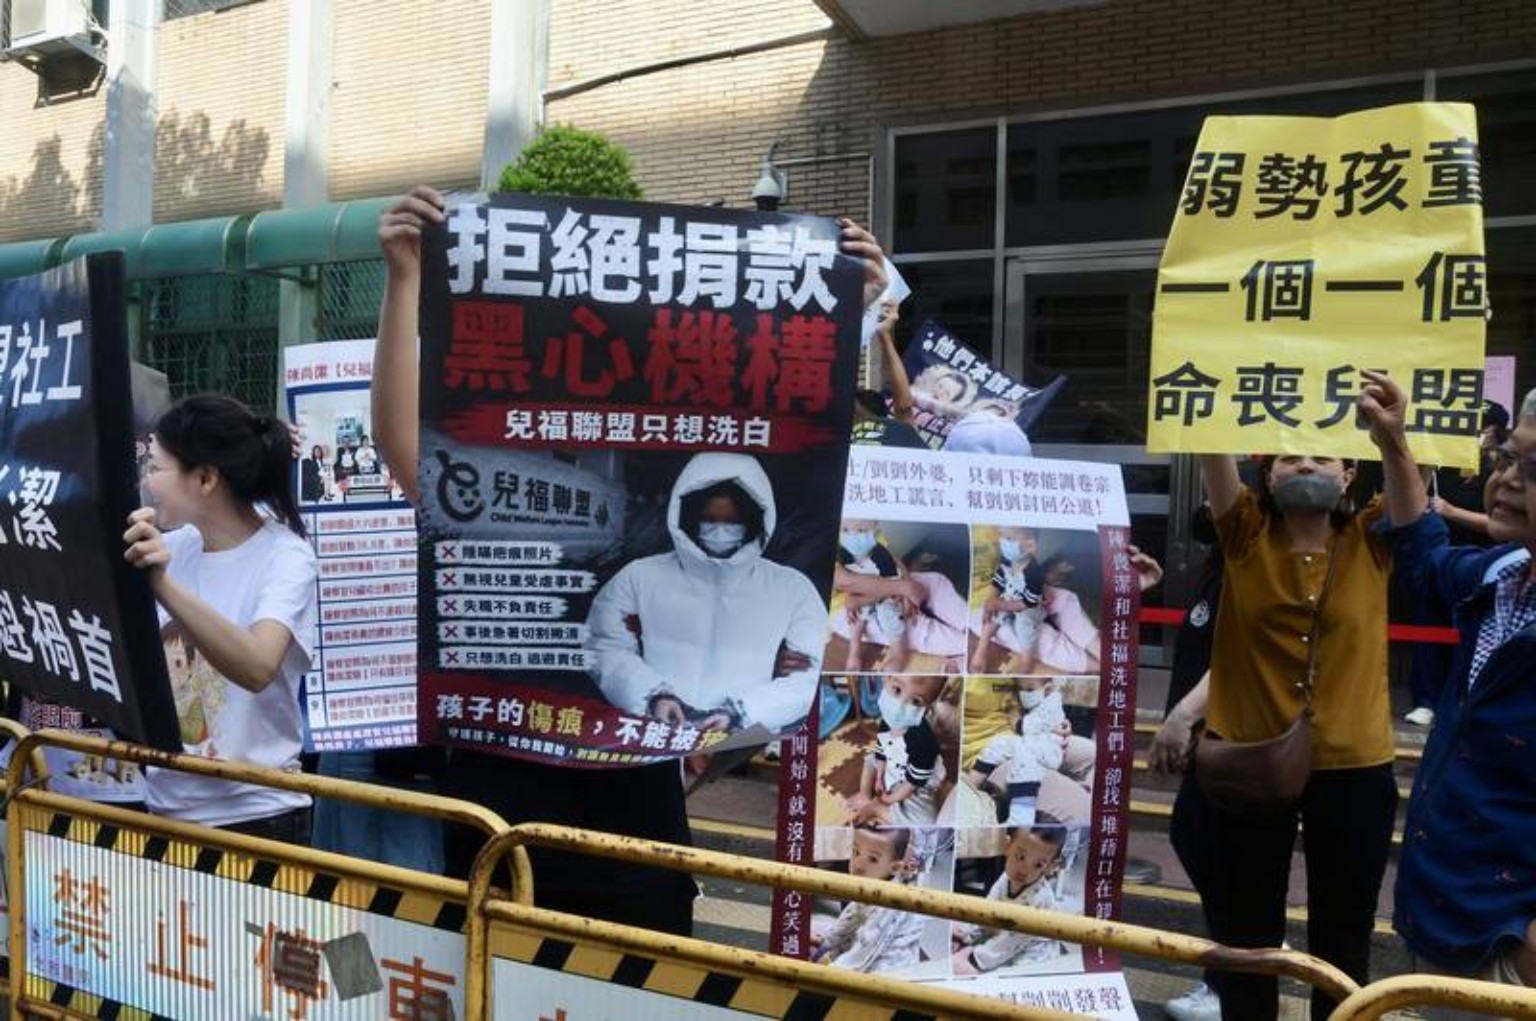
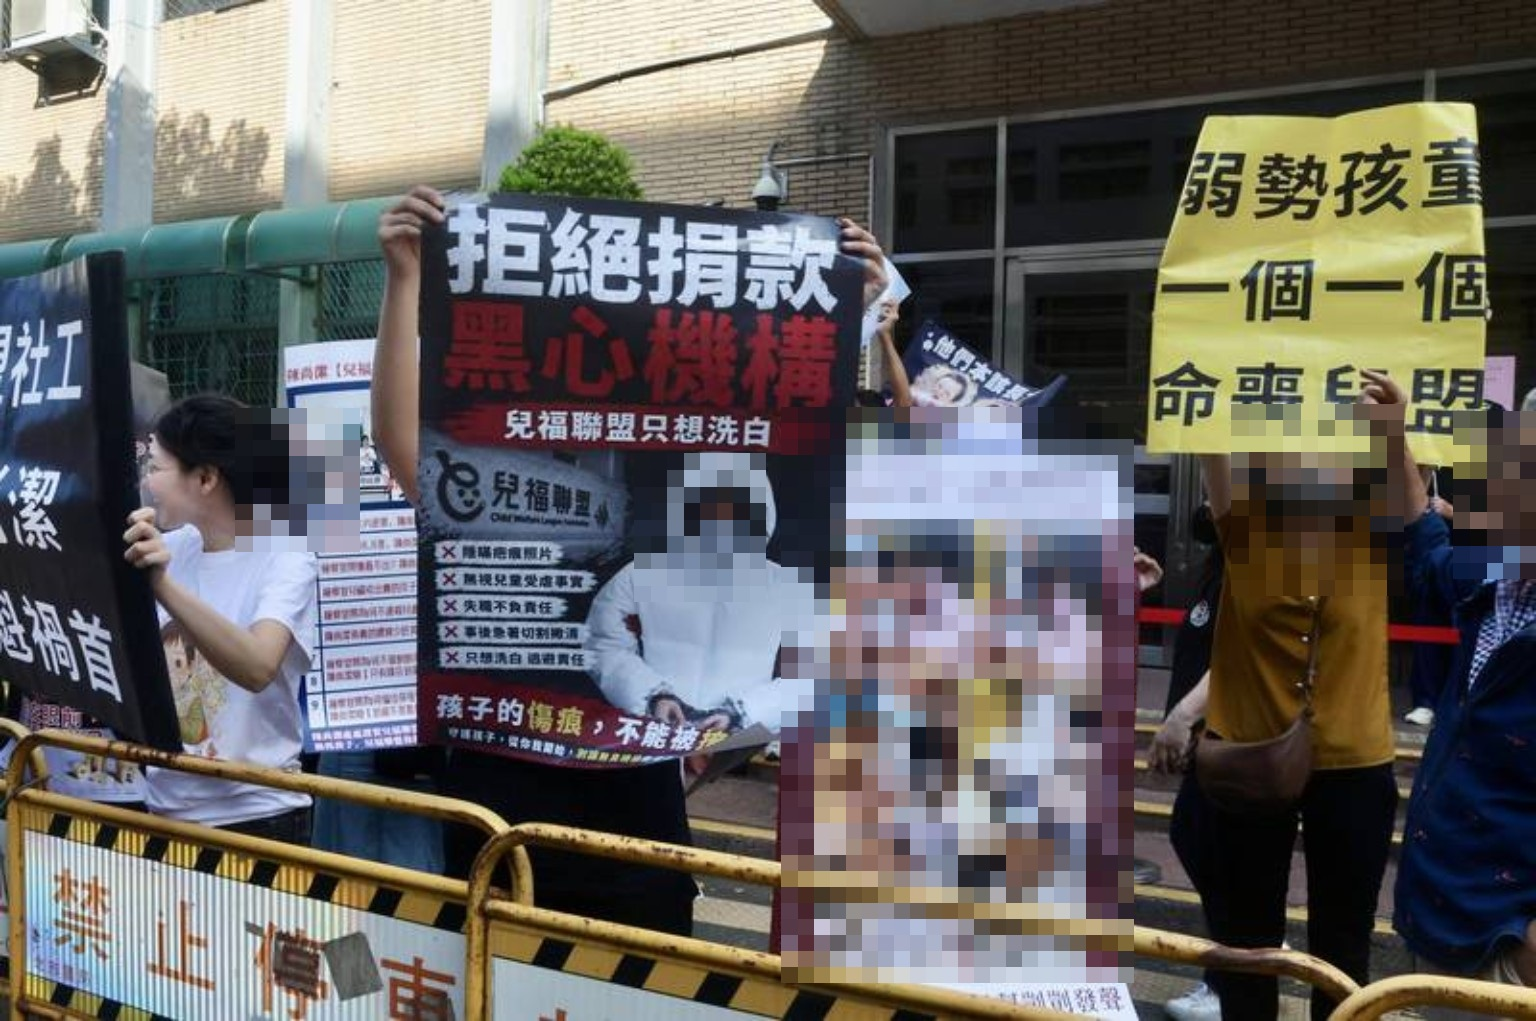
fix: redact high court protest photos

diff --git a/news/chen-shangjie-high-court-protest-20260916/zh-Hans/index.html b/news/chen-shangjie-high-court-protest-20260916/zh-Hans/index.html
@@ -6,7 +6,7 @@
 <title>二审首次开庭日：高院外的护童诉求｜护童行动联盟</title>
 <meta name="description" content="2026年9月16日，护童行动联盟在台湾高等法院外表达儿童保护诉求的现场记录。">
 <link rel="canonical" href="https://cn.globalprotectionwall.com/child-advocacy-site/news/chen-shangjie-high-court-protest-20260916/zh-Hans/">
-<style>body{margin:0;background:#f4eee7;color:#173b56;font-family:system-ui,sans-serif;line-height:1.8}header{padding:18px 6%;background:#173b56;color:#fff}header a{color:#fff;text-decoration:none;font-weight:700}main{max-width:880px;margin:0 auto;padding:42px 20px 72px}article{background:#fffdf9;border-radius:22px;padding:clamp(24px,5vw,52px);box-shadow:0 12px 40px #8b6e4d22}.k{color:#8b5f35;font-weight:800;letter-spacing:.08em}h1{font-size:clamp(2rem,6vw,3.3rem);line-height:1.22}.fact{padding:18px;border-left:5px solid #b77b49;background:#f7efe5;border-radius:0 12px 12px 0}a{color:#7b432c;font-weight:700}.note{color:#64707a;font-size:.93rem}</style>
+<style>body{margin:0;background:#f4eee7;color:#173b56;font-family:system-ui,sans-serif;line-height:1.8}header{padding:18px 6%;background:#173b56;color:#fff}header a{color:#fff;text-decoration:none;font-weight:700}main{max-width:880px;margin:0 auto;padding:42px 20px 72px}article{background:#fffdf9;border-radius:22px;padding:clamp(24px,5vw,52px);box-shadow:0 12px 40px #8b6e4d22}.k{color:#8b5f35;font-weight:800;letter-spacing:.08em}h1{font-size:clamp(2rem,6vw,3.3rem);line-height:1.22}.fact{padding:18px;border-left:5px solid #b77b49;background:#f7efe5;border-radius:0 12px 12px 0}figure{margin:1.5rem 0;padding:0}figure img{display:block;max-width:100%;height:auto;border-radius:12px}figcaption{margin-top:.55rem;color:#64707a;font-size:.93rem}a{color:#7b432c;font-weight:700}.note{color:#64707a;font-size:.93rem}</style>
 <link data-cpa-four-language-toolbar-style rel="stylesheet" href="/child-advocacy-site/assets/four-language-toolbar-20260901.css?v=20260909-5">
 <script data-cpa-four-language-toolbar-flag>window.__cpaFourLanguageToolbar=true;</script>
 <link rel="alternate" hreflang="zh-Hans" href="https://cn.globalprotectionwall.com/child-advocacy-site/news/chen-shangjie-high-court-protest-20260916/zh-Hans/">

diff --git a/news/chen-shangjie-high-court-protest-20260916/index.html b/news/chen-shangjie-high-court-protest-20260916/index.html
@@ -6,7 +6,7 @@
 <title>二審首度開庭日：高院外的護童訴求｜護童行動聯盟</title>
 <meta name="description" content="2026年9月16日，護童行動聯盟在台灣高等法院外表達兒少保護訴求的現場紀錄。">
 <link rel="canonical" href="https://jerryzuhow77.github.io/child-advocacy-site/news/chen-shangjie-high-court-protest-20260916/">
-<style>body{margin:0;background:#f4eee7;color:#173b56;font-family:system-ui,sans-serif;line-height:1.8}header{padding:18px 6%;background:#173b56;color:#fff}header a{color:#fff;text-decoration:none;font-weight:700}main{max-width:880px;margin:0 auto;padding:42px 20px 72px}article{background:#fffdf9;border-radius:22px;padding:clamp(24px,5vw,52px);box-shadow:0 12px 40px #8b6e4d22}.k{color:#8b5f35;font-weight:800;letter-spacing:.08em}h1{font-size:clamp(2rem,6vw,3.3rem);line-height:1.22}.fact{padding:18px;border-left:5px solid #b77b49;background:#f7efe5;border-radius:0 12px 12px 0}a{color:#7b432c;font-weight:700}.note{color:#64707a;font-size:.93rem}</style>
+<style>body{margin:0;background:#f4eee7;color:#173b56;font-family:system-ui,sans-serif;line-height:1.8}header{padding:18px 6%;background:#173b56;color:#fff}header a{color:#fff;text-decoration:none;font-weight:700}main{max-width:880px;margin:0 auto;padding:42px 20px 72px}article{background:#fffdf9;border-radius:22px;padding:clamp(24px,5vw,52px);box-shadow:0 12px 40px #8b6e4d22}.k{color:#8b5f35;font-weight:800;letter-spacing:.08em}h1{font-size:clamp(2rem,6vw,3.3rem);line-height:1.22}.fact{padding:18px;border-left:5px solid #b77b49;background:#f7efe5;border-radius:0 12px 12px 0}figure{margin:1.5rem 0;padding:0}figure img{display:block;max-width:100%;height:auto;border-radius:12px}figcaption{margin-top:.55rem;color:#64707a;font-size:.93rem}a{color:#7b432c;font-weight:700}.note{color:#64707a;font-size:.93rem}</style>
 <link data-cpa-four-language-toolbar-style rel="stylesheet" href="/child-advocacy-site/assets/four-language-toolbar-20260901.css?v=20260909-5">
 <script data-cpa-four-language-toolbar-flag>window.__cpaFourLanguageToolbar=true;</script>
 <link rel="alternate" hreflang="zh-Hans" href="https://cn.globalprotectionwall.com/child-advocacy-site/news/chen-shangjie-high-court-protest-20260916/zh-Hans/">
